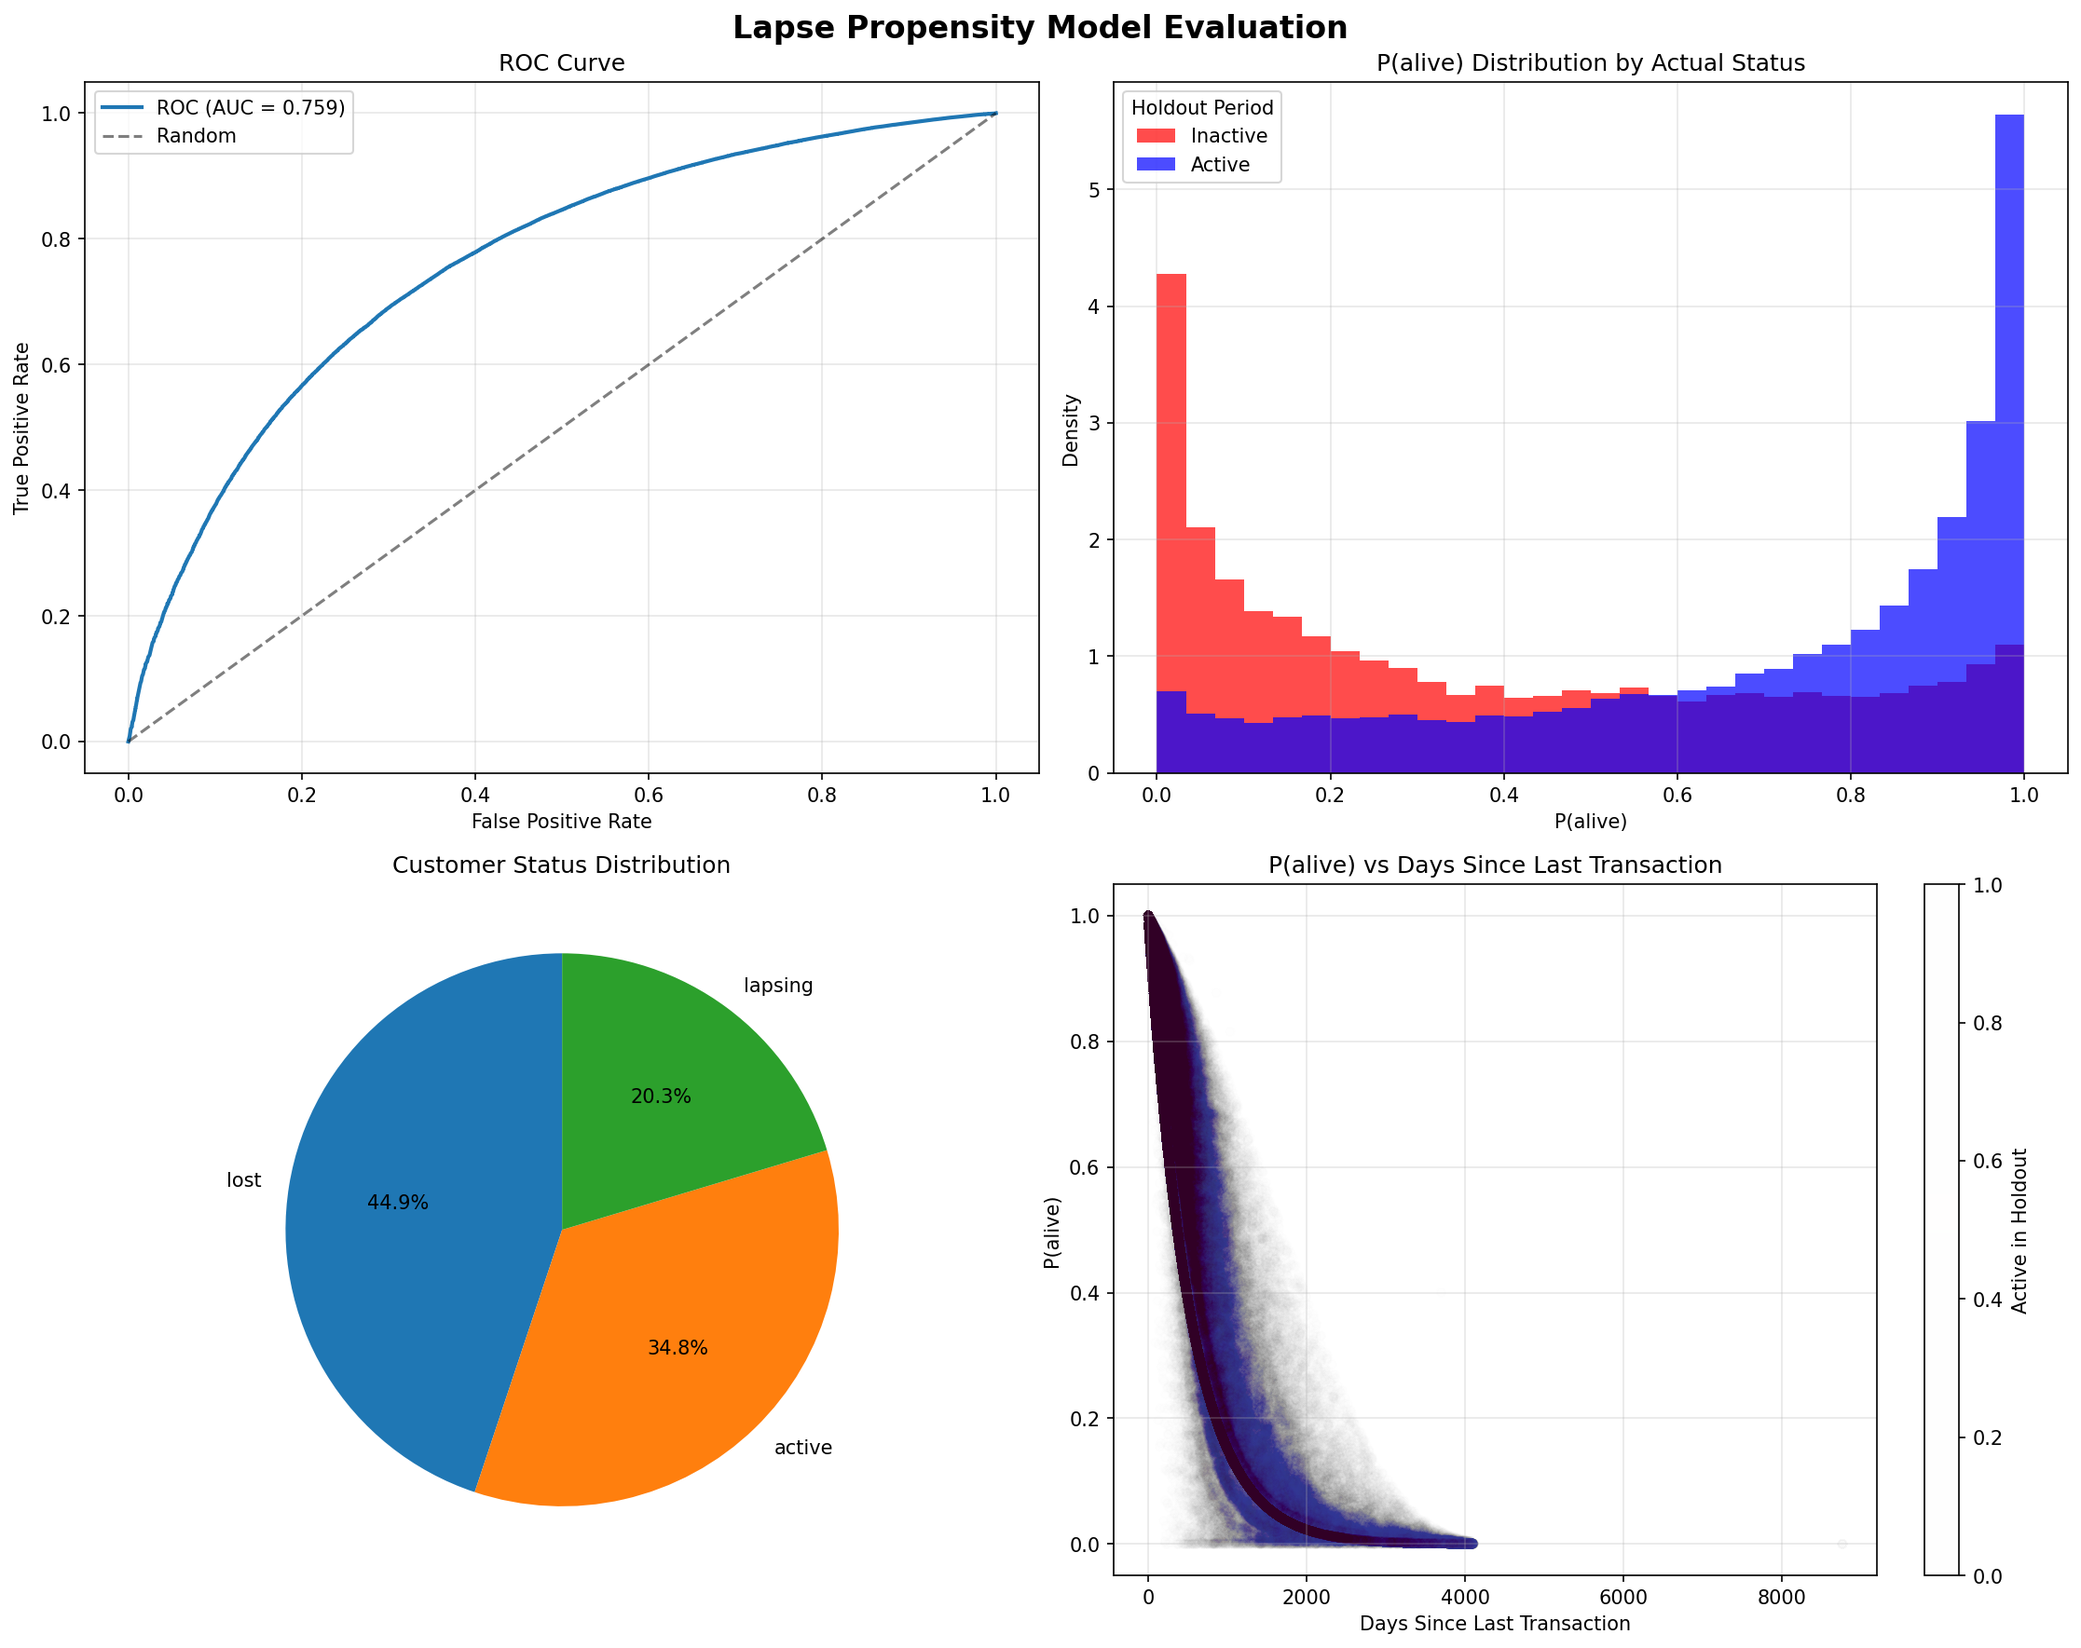
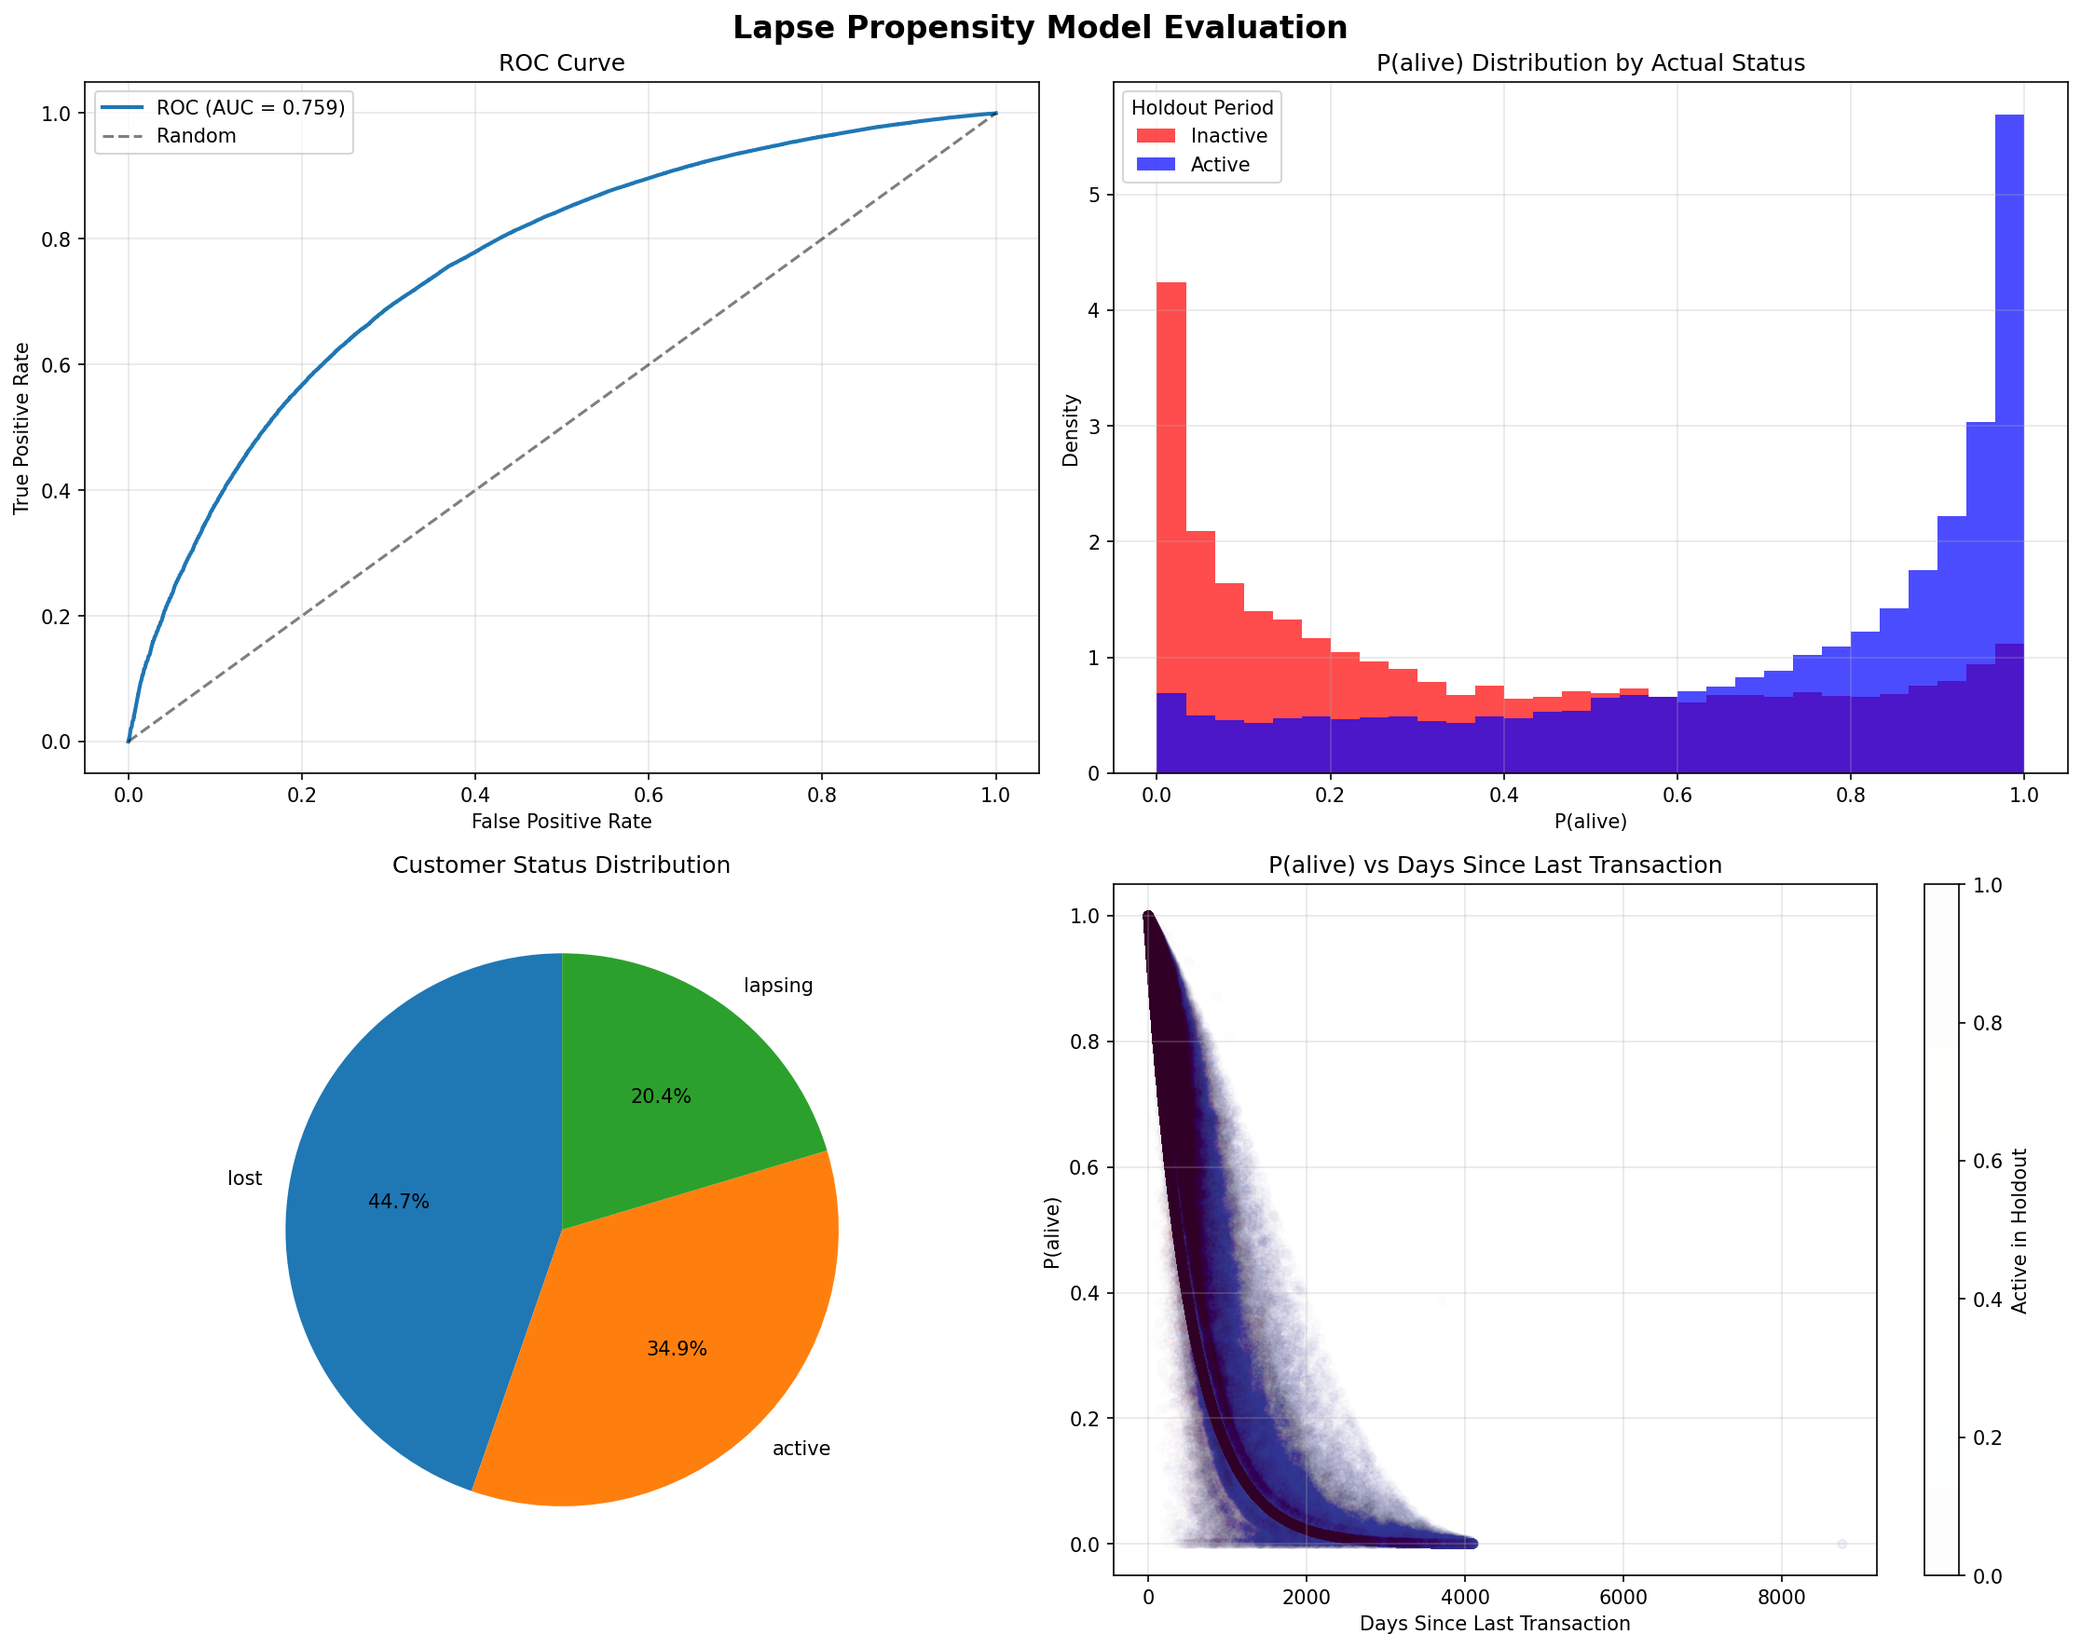
refactor: Remove DATE_CUTOFF logic and streamline transaction fetching in lapse propensity script

diff --git a/scripts/test_lapse_propensity.py b/scripts/test_lapse_propensity.py
@@ -1,8 +1,8 @@
 """
 Test Script for Customer Lapse Propensity Analysis
 
-Tests the production lapse propensity model on a sample dataset using proper temporal
-train/test splitting. Uses lifetimes calibration_and_holdout_data for evaluation.
+Tests the production lapse propensity model using proper temporal train/test splitting.
+Uses lifetimes calibration_and_holdout_data for evaluation.
 
 Usage: python scripts/test_lapse_propensity.py
 """
@@ -19,6 +19,9 @@ from sklearn.metrics import log_loss, brier_score_loss, roc_auc_score, roc_curve
 from lifetimes.utils import calibration_and_holdout_data
 import matplotlib.pyplot as plt
 
+# Add src to path for imports
+sys.path.append(str(Path(__file__).parent.parent))
+
 from src.config import DATA_DIR
 from scripts.lapse_propensity import (
     BQ,
@@ -27,16 +30,12 @@ from scripts.lapse_propensity import (
     log_dataframe_stats,
     log_config_constants,
     DiagnosticsTracker,
-    DATE_CUTOFF,
     PROJECT_ID,
     DATABASE_NAME,
 )
 
-# Add src to path for imports
-sys.path.append(str(Path(__file__).parent.parent))
-
 # Test configuration
-TEST_SAMPLE_SIZE = 10000000  # Sample size for testing
+TEST_SAMPLE_SIZE = 1000000  # Sample size for testing
 TEST_HORIZON_DAYS = 365  # Test period for evaluation
 TEST_TABLE_NAME = "customer_ltv_analysis_test"
 CALIBRATION_END_DATE = "2024-01-01"  # End of training period
@@ -46,8 +45,7 @@ log = logging.getLogger(__name__)
 
 
 def fetch_sample_transactions(bq: BQ, sample_size: int, observation_end_date: str):
-    """Fetch sample transactions for testing"""
-
+    """Fetch sample transactions for testing with date limit and sampling"""
     sample_query = f"""
     WITH sampled_customers AS (
         SELECT DISTINCT customer_id 
@@ -58,9 +56,7 @@ def fetch_sample_transactions(bq: BQ, sample_size: int, observation_end_date: st
         LIMIT {sample_size}
     )
     SELECT customer_id, 
-    DATETIME(transaction_completed_datetime) as txn_date,
-    CASE when DATE(transaction_completed_datetime) < @date_cutoff then 1 
-    else 0 end as excluded_from_training
+    DATETIME(transaction_completed_datetime) as txn_date
     FROM `mpb-data-science-dev-ab-602d.dsci_daw.STV` 
     WHERE DATE(transaction_completed_datetime) <= @observation_end_date
     AND transaction_completed_datetime is not null
@@ -72,21 +68,18 @@ def fetch_sample_transactions(bq: BQ, sample_size: int, observation_end_date: st
             bigquery.ScalarQueryParameter(
                 "observation_end_date", "DATE", observation_end_date
             ),
-            bigquery.ScalarQueryParameter("date_cutoff", "DATE", DATE_CUTOFF),
         ]
     )
 
     dtypes = {
         "customer_id": "int32",
         "txn_date": "datetime64[ns]",
-        "excluded_from_training": "int8",
     }
 
     transactions = bq.to_dataframe(sample_query, job_config=job_config, dtypes=dtypes)
     log.info(
         f"Fetched {len(transactions)} transactions for {transactions['customer_id'].nunique()} customers"
     )
-
     return transactions
 
 
@@ -121,10 +114,10 @@ def create_temporal_train_test_split(
     calibration_transactions = transactions[
         transactions["txn_date"] <= calibration_end
     ].copy()
-    train_features = create_btyd_features(calibration_transactions, training=True)
+    train_features = create_btyd_features(calibration_transactions)
 
     # Create test features (calibration period features for prediction)
-    test_features = create_btyd_features(calibration_transactions, training=False)
+    test_features = create_btyd_features(calibration_transactions)
 
     # Merge with holdout data for ground truth
     test_features = test_features.merge(
@@ -350,40 +343,47 @@ def test_production_model():
     train_features = split_data["train_features"]
     test_features = split_data["test_features"]
 
-    # Filter for reasonable ranges (same as comparison notebook)
-    log.info("Filtering features for reasonable ranges")
-    train_filtered = train_features.copy()
-
-    test_filtered = test_features.copy()
-
-    log.info(
-        f"Filtered to {len(train_filtered)} training and {len(test_filtered)} test customers"
-    )
-
     # Train production model
     log.info("Training production model")
     model = ParetoEmpiricalSingleTrainSplit()
-    model.fit(train_filtered)
+    model.fit(train_features)
     diagnostics.checkpoint("Model training")
 
     # Generate predictions
     log.info("Generating predictions")
-    test_filtered["p_alive"] = model.p_alive(test_filtered)
-    test_filtered["customer_status"] = model.customer_status(test_filtered)
-    
+    test_features["p_alive"] = model.p_alive(test_features)
+    test_features["customer_status"] = model.customer_status(test_features)
+
     # Save test results to parquet
-    test_filtered.to_parquet(Path(DATA_DIR) / "test_results.parquet")
+    test_features.to_parquet(Path(DATA_DIR) / "test_results.parquet")
     log.info("Saved test results to test_results.parquet")
-    
+
     diagnostics.checkpoint("Prediction generation")
 
     # Evaluate model
     log.info("Evaluating model performance")
-    metrics = evaluate_model_predictions(test_filtered)
+    metrics = evaluate_model_predictions(test_features)
+    
+    # Save metrics to txt file
+    metrics_path = Path(__file__).parent / "test_metrics.txt"
+    with open(metrics_path, 'w') as f:
+        f.write("LAPSE PROPENSITY MODEL TEST METRICS\n")
+        f.write("=" * 40 + "\n\n")
+        f.write(f"Dataset size: {metrics['n_customers']} customers\n")
+        f.write(f"Baseline (% active): {metrics['baseline_active_rate']:.1%}\n\n")
+        f.write("Classification Metrics:\n")
+        f.write(f"  AUC: {metrics['auc']:.4f}\n")
+        f.write(f"  Log Loss: {metrics['log_loss']:.4f}\n")
+        f.write(f"  Brier Score: {metrics['brier_score']:.4f}\n")
+        f.write(f"  Accuracy: {metrics['accuracy']:.4f}\n")
+        f.write(f"  Precision: {metrics['precision']:.4f}\n")
+        f.write(f"  Recall: {metrics['recall']:.4f}\n")
+    log.info(f"Saved metrics to {metrics_path}")
+    
     diagnostics.checkpoint("Model evaluation")
 
     # Log feature statistics
-    log_dataframe_stats(test_filtered, "Final test results")
+    log_dataframe_stats(test_features, "Final test results")
 
     # Save test results
     test_table_id = f"{PROJECT_ID}.{DATABASE_NAME}.{TEST_TABLE_NAME}"
@@ -402,7 +402,7 @@ def test_production_model():
         "y_true_txns",
         "frequency_holdout",
     ]
-    test_results = test_filtered[save_columns].copy()
+    test_results = test_features[save_columns].copy()
     bq.to_bq(test_results, test_table_id)
     diagnostics.checkpoint("Results saving")
 
@@ -410,7 +410,7 @@ def test_production_model():
 
     return {
         "metrics": metrics,
-        "test_results": test_filtered,
+        "test_results": test_features,
         "model": model,
     }
 

diff --git a/scripts/lapse_propensity.py b/scripts/lapse_propensity.py
@@ -27,11 +27,6 @@ import os
 logging.basicConfig(level=logging.INFO)
 log = logging.getLogger(__name__)
 
-# Transactions before this date are not included in model training or prediction
-# Any customers who only transacted before this date will have defaults applied
-# Look at combine_predictions() for details
-DATE_CUTOFF = "2015-01-01"
-
 
 @dataclass
 class CustomerStatus:
@@ -50,7 +45,7 @@ LAPSING_CUTOFF_DAYS = 540
 # Don't touch!
 PARETO_PENALIZER = 0.001
 TRANSACTION_EMPIRICAL_CUTOFF = 1
-MAX_FREQUENCY_CUTOFF = 100 # Higher than this and we get numerical issues
+MAX_FREQUENCY_CUTOFF = 100  # Higher than this and we get numerical issues
 
 # Update these!
 PROJECT_ID = "mpb-data-science-dev-ab-602d"
@@ -60,9 +55,7 @@ TABLE_NAME = "customer_ltv_analysis"
 
 TRANSACTION_QUERY = """
     SELECT customer_id, 
-    DATETIME(transaction_completed_datetime) as txn_date,
-    CASE when DATE(transaction_completed_datetime) < @date_cutoff then 1 
-    else 0 end as excluded_from_training
+    DATETIME(transaction_completed_datetime) as txn_date
     FROM `mpb-data-science-dev-ab-602d.dsci_daw.STV` 
     WHERE transaction_completed_datetime is not null
     """
@@ -167,10 +160,10 @@ class ParetoEmpiricalSingleTrainSplit:
     def p_alive(self, df: pd.DataFrame) -> pd.Series:
         pareto_probs = ParetoNBD.p_alive(self, df)
         empirical_probs = self.empirical.p_alive(df)
-        
+
         # Handle NaN values from Pareto model by falling back to empirical
         pareto_probs = pareto_probs.fillna(empirical_probs)
-        
+
         probs = np.where(
             df["frequency"] > TRANSACTION_EMPIRICAL_CUTOFF - 1,
             pareto_probs,
@@ -184,40 +177,24 @@ class ParetoEmpiricalSingleTrainSplit:
 
 
 # --- Data Processing --------------------------------------------------------
-def fetch_transactions(bq: BQ, query=TRANSACTION_QUERY, date_cutoff=DATE_CUTOFF):
-    """Fetch transaction data from BigQuery and save to parquet"""
-    job_config = bigquery.QueryJobConfig(
-        query_parameters=[
-            bigquery.ScalarQueryParameter("date_cutoff", "DATE", date_cutoff)
-        ]
-    )
+def fetch_transactions(bq: BQ, query=TRANSACTION_QUERY):
+    """Fetch transaction data from BigQuery"""
     dtypes = {
         "customer_id": "int32",
         "txn_date": "datetime64[ns]",
-        "excluded_from_training": "int8",
     }
 
-    transactions = bq.to_dataframe(query, job_config=job_config, dtypes=dtypes)
+    transactions = bq.to_dataframe(query, dtypes=dtypes)
     log.info(f"Fetched {len(transactions)} transactions")
 
     return transactions
 
 
-def create_btyd_features(transactions: pd.DataFrame, training=False):
+def create_btyd_features(transactions: pd.DataFrame):
     """
-    Create BTYD and survival features:
-    (frequency, recency, T, days_since_last, excluded_from_training)
-
-    If training is True, only include transactions not excluded from training.
+    Create BTYD features: frequency, recency, T, days_since_last
     """
-
-    if training:
-        _transactions = transactions[transactions["excluded_from_training"] == 0].copy()
-        log.info(
-            f"Using {len(_transactions)} transactions for training after applying cutoff"
-        )
-    else:
-        _transactions = transactions.copy()
+    _transactions = transactions.copy()
 
     summary = summary_data_from_transaction_data(
         transactions=_transactions,
@@ -235,8 +212,12 @@ def create_btyd_features(transactions: pd.DataFrame, training=False):
     # Cap frequency to prevent numerical issues
     high_freq_count = (summary["frequency"] > MAX_FREQUENCY_CUTOFF).sum()
     if high_freq_count > 0:
-        summary.loc[summary["frequency"] > MAX_FREQUENCY_CUTOFF, "frequency"] = MAX_FREQUENCY_CUTOFF
-        log.info(f"Capped {high_freq_count} customers with frequency > {MAX_FREQUENCY_CUTOFF}")
+        summary.loc[summary["frequency"] > MAX_FREQUENCY_CUTOFF, "frequency"] = (
+            MAX_FREQUENCY_CUTOFF
+        )
+        log.info(
+            f"Capped {high_freq_count} customers with frequency > {MAX_FREQUENCY_CUTOFF}"
+        )
 
     # Cast to int32 to save memory
     int_cols = [
@@ -266,27 +247,6 @@ def _get_customer_status(p_alive: float) -> CustomerStatus:
         return CustomerStatus.LAPSING
     else:
         return CustomerStatus.ACTIVE
-
-
-def combine_predictions(
-    all_features: pd.DataFrame, predicted_features: pd.DataFrame
-) -> pd.DataFrame:
-    """Combine predictions with missing customers assigned p_alive=0 and status=lost"""
-    missing_customers = all_features[
-        ~all_features["customer_id"].isin(predicted_features["customer_id"])
-    ].copy()
-    missing_customers["p_alive"] = 0.0
-    missing_customers["customer_status"] = CustomerStatus.LOST
-
-    max_T = predicted_features["T"].max()
-    missing_customers["T"] = max_T
-    missing_customers["recency"] = max_T
-    missing_customers["days_since_last"] = max_T
-    missing_customers["frequency"] = 0
-
-    return pd.concat([predicted_features, missing_customers], ignore_index=True)[
-        FINAL_COLUMNS
-    ]
 
 
 # --- Utilities --------------------------------------------------------------
@@ -337,7 +297,7 @@ def log_config_constants():
     log.info(f"  LAPSING_CUTOFF_DAYS: {LAPSING_CUTOFF_DAYS}")
     log.info(f"  PARETO_PENALIZER: {PARETO_PENALIZER}")
     log.info(f"  TRANSACTION_EMPIRICAL_CUTOFF: {TRANSACTION_EMPIRICAL_CUTOFF}")
-    log.info(f"  DATE_CUTOFF: {DATE_CUTOFF}")
+    log.info(f"  MAX_FREQUENCY_CUTOFF: {MAX_FREQUENCY_CUTOFF}")
 
 
 # --- Main -------------------------------------------------------------------
@@ -350,21 +310,20 @@ def main():
     # Fetch and process data
     log.info("Fetching transactions and calculating features")
     transactions = fetch_transactions(bq)
-    all_features = create_btyd_features(transactions)
-    train_features = create_btyd_features(transactions, training=True)
+    features = create_btyd_features(transactions)
 
     # Train model
     log.info("Fitting model")
     model = ParetoEmpiricalSingleTrainSplit()
-    model.fit(train_features)
+    model.fit(features)
 
     # Generate predictions
     log.info("Calculating probabilities and customer status")
-    train_features["p_alive"] = model.p_alive(train_features)
-    train_features["customer_status"] = model.customer_status(train_features)
+    features["p_alive"] = model.p_alive(features).round(2)
+    features["customer_status"] = model.customer_status(features)
 
-    # Combine with customers who only transacted before the cutoff date
-    final_features = combine_predictions(all_features, train_features)
+    # Select final columns
+    final_features = features[FINAL_COLUMNS]
 
     # Log results and config
     log_dataframe_stats(final_features, "Final results")
